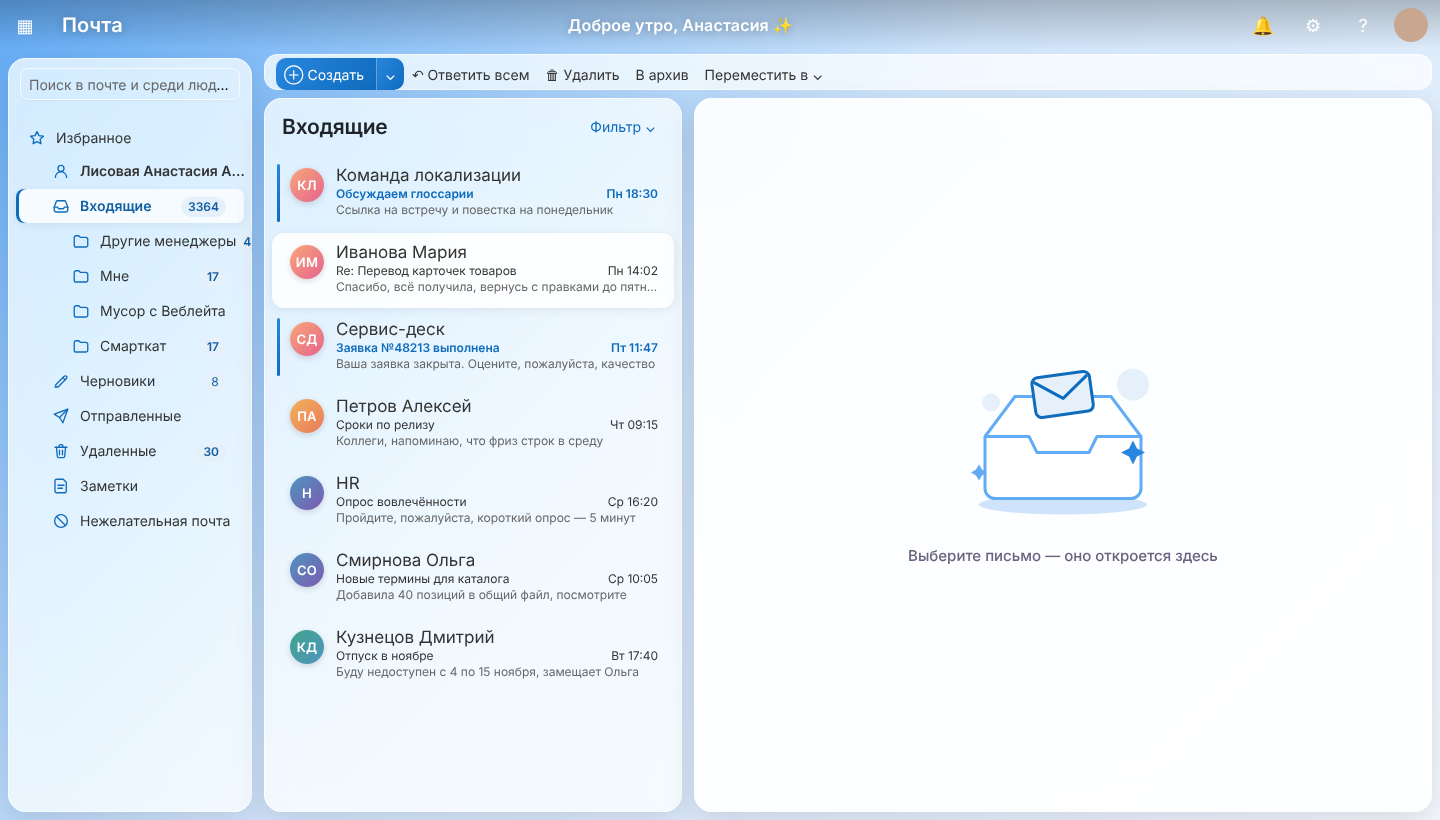
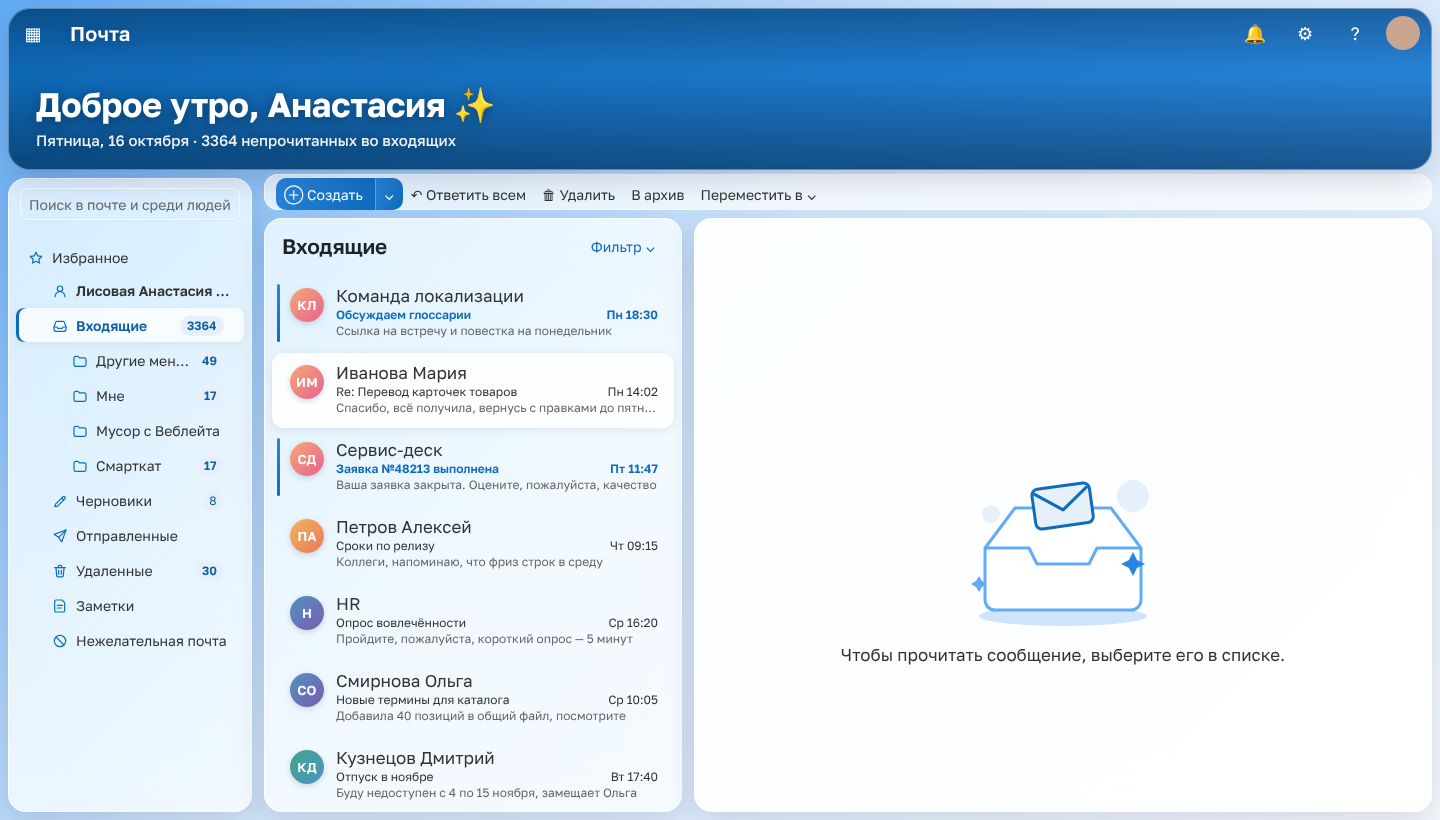
OWA Restyle 0.3: hero header, reading-pane picture, folder pane fixes
- Tall hero header with its own picture, height and focus sliders,
  big greeting with date and unread count
- Own picture in the empty reading pane, OWA hint shown as a pill
- Wider folder pane, long folder names ellipsized before counters,
  smaller folder icons
- Header offset works with both inline style spellings

Claude-Session: https://claude.ai/code/session_01MUPSdyJMeKqe5QhkT4sJWG

diff --git a/owa-restyle/content.js b/owa-restyle/content.js
@@ -27,7 +27,12 @@
       chrome.storage.local.get({ images: [], emptyImage: null }, function (local) {
         resolveWallpaper(s, local, function (wall) {
           settings = s;
-          style.textContent = R.buildCss(s, urlFor, { wallpaper: wall, emptyImage: local.emptyImage });
+          var hero = s.heroImage && s.heroImage !== "wallpaper" &&
+            (local.images || []).filter(function (i) { return i.id === s.heroImage; })[0];
+          var reading = s.readingImage && s.readingImage !== "none" &&
+            (local.images || []).filter(function (i) { return i.id === s.readingImage; })[0];
+          style.textContent = R.buildCss(s, urlFor, { wallpaper: wall, emptyImage: local.emptyImage,
+            heroImage: hero ? hero.data : null, readingImage: reading ? reading.data : null });
           document.documentElement.classList.toggle("ors-glass", s.style === "glass");
           schedule();
         });
@@ -87,27 +92,86 @@
     }
   }
 
+  var MONTHS = ["января", "февраля", "марта", "апреля", "мая", "июня", "июля", "августа", "сентября", "октября", "ноября", "декабря"];
+  var DAYS = ["Воскресенье", "Понедельник", "Вторник", "Среда", "Четверг", "Пятница", "Суббота"];
+
+  function firstName() {
+    var btn = document.querySelector('button[aria-label^="Меню "]');
+    if (!btn) return "";
+    // «Меню Фамилия Имя Отчество с подменю» → Имя
+    var parts = btn.getAttribute("aria-label").replace(/^Меню\s+/, "").replace(/\s+с подменю.*$/, "").split(/\s+/);
+    return parts.length >= 2 ? parts[1] : parts[0];
+  }
+
+  function inboxUnread() {
+    var name = document.querySelector('div[autoid="_n_a"] ._n_C4[title="Входящие"], div[autoid="_n_a"] ._n_C4[title="Inbox"]');
+    var row = name && name.closest('[role="treeitem"]');
+    var cnt = row && row.querySelector("._n_E4");
+    var n = cnt ? parseInt(cnt.textContent.replace(/\D/g, ""), 10) : 0;
+    return n || 0;
+  }
+
+  function plural(n, one, few, many) {
+    var m10 = n % 10, m100 = n % 100;
+    if (m10 === 1 && m100 !== 11) return one;
+    if (m10 >= 2 && m10 <= 4 && (m100 < 12 || m100 > 14)) return few;
+    return many;
+  }
+
+  function setText(el, text) { if (el.textContent !== text) el.textContent = text; }
+
   function decorateHeader() {
+    var glass = settings.style === "glass";
+    var heroOn = glass && (+settings.heroHeight || 50) > 50;
+    var greetOn = glass && settings.greeting !== false;
+    var now = new Date(), h = now.getHours();
+    var hello = (h < 5 ? "Доброй ночи" : h < 12 ? "Доброе утро" : h < 18 ? "Добрый день" : "Добрый вечер") +
+      (firstName() ? ", " + firstName() : "");
+
+    // Маленькое приветствие по центру шапки — когда баннер выключен.
     var center = document.querySelector("#O365_NavHeader .o365cs-nav-centerAlign");
     var greet = document.querySelector(".ors-greet");
-    var on = settings.style === "glass" && settings.greeting !== false;
-    if (!on || !center) { if (greet) greet.remove(); return; }
-    var btn = document.querySelector('button[aria-label^="Меню "]');
-    var first = "";
-    if (btn) {
-      // «Меню Фамилия Имя Отчество с подменю» → Имя
-      var parts = btn.getAttribute("aria-label").replace(/^Меню\s+/, "").replace(/\s+с подменю.*$/, "").split(/\s+/);
-      first = parts.length >= 2 ? parts[1] : parts[0];
+    if (greetOn && !heroOn && center) {
+      if (!greet) { greet = document.createElement("span"); greet.className = "ors-greet"; center.appendChild(greet); }
+      setText(greet, hello + " ✨");
+    } else if (greet) greet.remove();
+
+    // Крупный текст на баннере.
+    var headerView = document.getElementById("primaryHeaderView");
+    var hero = document.querySelector(".ors-hero");
+    if (heroOn && greetOn && headerView) {
+      if (!hero) {
+        hero = document.createElement("div");
+        hero.className = "ors-hero";
+        hero.appendChild(document.createElement("b"));
+        hero.appendChild(document.createElement("span"));
+        headerView.appendChild(hero);
+      }
+      var n = inboxUnread();
+      var sub = DAYS[now.getDay()] + ", " + now.getDate() + " " + MONTHS[now.getMonth()] +
+        (n ? " · " + n + " " + plural(n, "непрочитанное", "непрочитанных", "непрочитанных") + " во входящих" : "");
+      setText(hero.firstChild, hello + " ✨");
+      setText(hero.lastChild, sub);
+    } else if (hero) hero.remove();
+  }
+
+  // Длинные названия папок обрезаем многоточием, чтобы не наезжали на счётчики.
+  function fitFolders() {
+    var card = document.querySelector('div[autoid="_n_a"]');
+    var names = card ? card.querySelectorAll("._n_C4") : [];
+    var on = settings.style === "glass";
+    if (!card) return;
+    var right = card.getBoundingClientRect().right - 16;
+    for (var i = 0; i < names.length; i++) {
+      var el = names[i];
+      if (!on) { el.classList.remove("ors-fit"); el.style.maxWidth = ""; continue; }
+      el.classList.add("ors-fit");
+      var row = el.closest('[role="treeitem"]');
+      var cnt = row && row.querySelector("._n_F4");
+      var cw = cnt && cnt.offsetWidth && cnt.textContent.trim() ? cnt.offsetWidth + 10 : 0;
+      var max = Math.max(40, Math.floor(right - el.getBoundingClientRect().left - cw - 6));
+      if (el.style.maxWidth !== max + "px") el.style.maxWidth = max + "px";
     }
-    var h = new Date().getHours();
-    var hello = h < 5 ? "Доброй ночи" : h < 12 ? "Доброе утро" : h < 18 ? "Добрый день" : "Добрый вечер";
-    var text = hello + (first ? ", " + first : "") + " ✨";
-    if (!greet) {
-      greet = document.createElement("span");
-      greet.className = "ors-greet";
-      center.appendChild(greet);
-    }
-    if (greet.textContent !== text) greet.textContent = text;
   }
 
   function decorateFolders() {
@@ -121,8 +185,12 @@
   function decorateReading() {
     var pane = document.querySelector("._n_Y");
     if (!pane) return;
-    var empty = settings.style === "glass" && pane.innerText.trim().length === 0;
+    // Письмо не открыто: в области чтения пусто или видна заглушка OWA «Чтобы прочитать сообщение…».
+    var stub = pane.querySelector("._n_O2");
+    var stubVisible = stub && stub.offsetParent !== null;
+    var empty = settings.style === "glass" && (stubVisible || pane.innerText.trim().length === 0);
     pane.classList.toggle("ors-reading-empty", empty);
+    pane.classList.toggle("ors-reading-stub", !!stubVisible);
   }
 
   // Держим наш стиль последним в <head>: так он перекрывает стили, которые OWA добавляет на ходу.
@@ -142,6 +210,7 @@
       decorateList();
       decorateHeader();
       decorateFolders();
+      fitFolders();
       decorateReading();
     }, 150);
   }
@@ -151,12 +220,13 @@
     new MutationObserver(function (muts) {
       for (var i = 0; i < muts.length; i++) {
         var n = muts[i].target;
-        if (n && n.classList && (n.classList.contains("ors-av") || n.classList.contains("ors-greet"))) continue;
+        if (n && n.classList && (n.classList.contains("ors-av") || n.classList.contains("ors-greet") || n.classList.contains("ors-hero") || (n.parentElement && n.parentElement.classList && n.parentElement.classList.contains("ors-hero")))) continue;
         schedule();
         return;
       }
     }).observe(document.documentElement, { childList: true, subtree: true, characterData: true });
     setInterval(schedule, 60000); // обновить приветствие по времени суток
+    window.addEventListener("resize", schedule);
   }
 
   if (document.readyState === "loading") document.addEventListener("DOMContentLoaded", start);

diff --git a/owa-restyle/glass.js b/owa-restyle/glass.js
@@ -124,7 +124,7 @@
 
     // Иконки папок.
     if (s.folderIcons !== false) {
-      out.push("html ._n_C4::before,html #MailFolderPane\\.FavoritesHeader::before{content:\"\";display:inline-block;width:18px;height:18px;margin-right:10px;vertical-align:-4px;" +
+      out.push("html ._n_C4::before,html #MailFolderPane\\.FavoritesHeader::before{content:\"\";display:inline-block;width:16px;height:16px;margin-right:8px;vertical-align:-3px;" +
         "background:" + t.primary + ";-webkit-mask:" + ICONS.folder + " center/contain no-repeat;mask:" + ICONS.folder + " center/contain no-repeat}");
       FOLDERS.forEach(function (f) {
         var sel = f[1].map(function (n) { return "html ._n_C4[title=\"" + n + "\"]::before"; }).join(",");
@@ -147,9 +147,43 @@
     out.push("html ._n_O2>span.owaimg::before{content:none!important}");
 
     // Пустая область чтения: иллюстрация и подсказка (класс ставит content.js).
-    out.push("html ._n_Y.ors-reading-empty::after{content:\"Выберите письмо — оно откроется здесь\";position:absolute;left:0;right:0;top:50%;transform:translateY(-50%);" +
+    out.push("html ._n_Y.ors-reading-empty:not(.ors-reading-stub)::after{content:\"Выберите письмо — оно откроется здесь\";position:absolute;left:0;right:0;top:50%;transform:translateY(-50%);" +
       "padding-top:200px;text-align:center;color:#6b6280;font:500 15px/1.4 var(--ors-font, \"Segoe UI\", sans-serif);" +
       "background:var(--ors-empty) center top/240px 180px no-repeat;pointer-events:none}");
+
+    // Панель папок шире (OWA задаёт 256px в inline-стилях; если ширину перетащить мышкой, оставляем как есть).
+    var FW = 296;
+    out.push("html [role=\"main\"]._n_X>div[style*=\"width: 256px\"]{width:" + FW + "px!important}");
+    out.push("html [role=\"main\"]._n_X>.vResize[style*=\"256px\"],html [role=\"main\"]._n_X>._n_X[style*=\"256px\"]{left:" + FW + "px!important}");
+    // Длинные названия папок — с многоточием (max-width выставляет content.js).
+    out.push("html div[autoid=\"_n_a\"] ._n_C4.ors-fit{display:inline-block;overflow:hidden;text-overflow:ellipsis;white-space:nowrap;vertical-align:middle}");
+    out.push("html .o365cs-base.o365cst .o365cs-appLauncherBackground,html #O365_NavHeader .o365cs-nav-button{background-color:transparent!important}");
+
+    // Шапка-баннер.
+    var H = Math.max(50, Math.min(320, +s.heroHeight || 50));
+    if (H > 50) {
+      var heroBg = extras.heroImage ? "url(\"" + extras.heroImage + "\") center " + (+s.heroPos || 0) + "%/cover no-repeat" :
+        extras.wallpaper ? "transparent" : (th.header || gradient);
+      out.push("html #primaryHeaderView{height:" + H + "px!important;z-index:1}");
+      out.push(["inset: 50px", "inset:50px", "top: 50px", "top:50px"].map(function (v) { return "html #primaryContainer>div[style*=\"" + v + "\"],html #primaryContainer>a[style*=\"" + v + "\"]"; }).join(",") + "{top:" + H + "px!important}");
+      out.push("html ._n_c{height:" + H + "px!important}");
+      out.push("html #primaryHeaderView::before{content:\"\";position:absolute;inset:8px 8px 0 8px;border-radius:22px;z-index:-1;pointer-events:none;" +
+        "background:linear-gradient(180deg,rgba(0,0,0,.28) 0,rgba(0,0,0,0) 70px),linear-gradient(0deg,rgba(0,0,0,.36) 0,rgba(0,0,0,0) 65%)," + heroBg + ";" +
+        "box-shadow:inset 0 0 0 1px rgba(255,255,255,.35),0 10px 30px rgba(20,10,40,.15)}");
+      out.push("html #O365_NavHeader,html #O365_NavHeader.o365cs-topnavBGImage,html .o365cs-topnavBGColor-2{background:transparent!important;margin:8px 8px 0;border-radius:22px 22px 0 0}");
+      out.push("html .ors-hero{position:absolute;left:36px;right:36px;bottom:20px;color:#fff;pointer-events:none;text-shadow:0 2px 12px rgba(0,0,0,.35)}");
+      out.push("html .ors-hero b{display:block;font:700 " + (H >= 150 ? 34 : 24) + "px/1.15 var(--ors-display, var(--ors-font, \"Segoe UI\", sans-serif));letter-spacing:-.01em}");
+      out.push("html .ors-hero span{display:block;margin-top:6px;font:500 15px/1.3 var(--ors-font, \"Segoe UI\", sans-serif);opacity:.92}");
+      if (H < 110) out.push("html .ors-hero span{display:none}");
+    }
+
+    // Своя картинка в пустой области чтения (пока письмо не открыто).
+    if (extras.readingImage) {
+      out.push("html ._n_Y.ors-reading-empty::before{background:url(\"" + extras.readingImage + "\") center " + (+s.readingPos || 50) + "%/cover no-repeat}");
+      out.push("html ._n_Y.ors-reading-empty ._n_O2>span.owaimg,html ._n_Y.ors-reading-empty::after{display:none!important}");
+      out.push("html ._n_Y.ors-reading-empty ._n_O2{width:fit-content!important;max-width:90%;margin-left:auto!important;margin-right:auto!important;padding:10px 18px;border-radius:14px;" +
+        "background:rgba(255,255,255,.72);" + bf + ";box-shadow:0 6px 20px rgba(20,10,40,.15);white-space:nowrap}");
+    }
 
     // Приветствие в шапке.
     out.push("html .ors-greet{color:#fff;font:600 16px/50px var(--ors-display, var(--ors-font, \"Segoe UI\", sans-serif));letter-spacing:.01em;white-space:nowrap}");

diff --git a/owa-restyle/settings.js b/owa-restyle/settings.js
@@ -63,6 +63,8 @@
     var glass = cur.style === "glass";
     $("glassOnly").hidden = !glass;
     $("glassOnly2").hidden = !glass;
+    $("glassOnly3").hidden = !glass;
+    $("heroWrap").hidden = (+cur.heroHeight || 50) <= 50;
     $("openFull").hidden = !popup;
 
     var st = $("styles"); st.innerHTML = "";
@@ -86,13 +88,52 @@
           if (!confirm("Удалить эту картинку?")) return;
           saveLocal({ images: local.images.filter(function (x) { return x.id !== img.id; }) });
           if (cur.wallpaper === img.id) save({ wallpaper: "theme" });
+          if (cur.heroImage === img.id) save({ heroImage: "wallpaper" });
+          if (cur.readingImage === img.id) save({ readingImage: "none" });
         }));
     });
     var add = wallTile("+ Загрузить свою", null, false, function () {
-      if (popup) chrome.runtime.openOptionsPage(); else $("wallFile").click();
+      if (popup) chrome.runtime.openOptionsPage(); else { uploadTarget = "wallpaper"; $("wallFile").click(); }
     });
     add.classList.add("add");
     walls.appendChild(add);
+
+    var heroes = $("heroes"); heroes.innerHTML = "";
+    heroes.appendChild(wallTile("Как фон", null, cur.heroImage === "wallpaper", function () { save({ heroImage: "wallpaper" }); }));
+    heroes.firstChild.style.background = "repeating-linear-gradient(45deg,#f1eff6 0 8px,#fafafa 8px 16px)";
+    heroes.firstChild.querySelector("span").style.color = "#6b7280";
+    heroes.firstChild.querySelector("span").style.background = "none";
+    (local.images || []).forEach(function (img) {
+      var tile = wallTile(img.name || "Моя картинка", "url(" + img.data + ")", cur.heroImage === img.id, function () { save({ heroImage: img.id }); });
+      tile.style.backgroundPosition = "center " + cur.heroPos + "%";
+      heroes.appendChild(tile);
+    });
+    var addHero = wallTile("+ Загрузить", null, false, function () {
+      if (popup) chrome.runtime.openOptionsPage(); else { uploadTarget = "heroImage"; $("wallFile").click(); }
+    });
+    addHero.classList.add("add");
+    heroes.appendChild(addHero);
+    var readings = $("readings"); readings.innerHTML = "";
+    var none = wallTile("Без картинки", null, cur.readingImage === "none" || !cur.readingImage, function () { save({ readingImage: "none" }); });
+    none.style.background = "repeating-linear-gradient(45deg,#f1eff6 0 8px,#fafafa 8px 16px)";
+    none.querySelector("span").style.color = "#6b7280";
+    none.querySelector("span").style.background = "none";
+    readings.appendChild(none);
+    (local.images || []).forEach(function (img) {
+      var tile = wallTile(img.name || "Моя картинка", "url(" + img.data + ")", cur.readingImage === img.id, function () { save({ readingImage: img.id }); });
+      tile.style.backgroundPosition = "center " + cur.readingPos + "%";
+      readings.appendChild(tile);
+    });
+    var addReading = wallTile("+ Загрузить", null, false, function () {
+      if (popup) chrome.runtime.openOptionsPage(); else { uploadTarget = "readingImage"; $("wallFile").click(); }
+    });
+    addReading.classList.add("add");
+    readings.appendChild(addReading);
+    $("readingPosWrap").hidden = !cur.readingImage || cur.readingImage === "none";
+    $("readingPos").value = cur.readingPos;
+
+    $("heroHeight").value = cur.heroHeight;
+    $("heroPos").value = cur.heroPos;
 
     $("dim").value = cur.dim;
     $("blur").value = cur.blur;
@@ -153,12 +194,17 @@
     reader.readAsDataURL(file);
   }
 
+  var uploadTarget = "wallpaper";
   $("wallFile").onchange = function (e) {
     var files = Array.prototype.slice.call(e.target.files);
     e.target.value = "";
     (function next(lastId) {
       var f = files.shift();
-      if (!f) { if (lastId) save({ wallpaper: lastId, style: "glass" }); return; }
+      if (!f) {
+        if (lastId) { var p = { style: "glass" }; p[uploadTarget] = lastId; save(p); }
+        uploadTarget = "wallpaper";
+        return;
+      }
       readImage(f, 2560, "image/jpeg", 0.88, function (data) {
         var id = "img" + Date.now() + Math.floor(Math.random() * 1000);
         var name = f.name.replace(/\.[^.]+$/, "").slice(0, 24);
@@ -178,7 +224,7 @@
   $("emptyReset").onclick = function () { saveLocal({ emptyImage: null }); };
   $("openFull").onclick = function () { chrome.runtime.openOptionsPage(); };
 
-  ["dim", "blur"].forEach(function (k) {
+  ["dim", "blur", "heroHeight", "heroPos", "readingPos"].forEach(function (k) {
     var timer = null;
     $(k).oninput = function () {
       var v = +this.value;

diff --git a/owa-restyle/settings.html b/owa-restyle/settings.html
@@ -25,6 +25,19 @@
       </div>
     </section>
 
+    <section id="glassOnly3">
+      <h2>Шапка</h2>
+      <div class="sliders">
+        <label>Высота шапки <input id="heroHeight" type="range" min="50" max="320" step="10"></label>
+      </div>
+      <div id="heroWrap">
+        <div id="heroes" class="walls"></div>
+        <div class="sliders">
+          <label>Сдвиг картинки ↕ <input id="heroPos" type="range" min="0" max="100" step="1"></label>
+        </div>
+      </div>
+    </section>
+
     <h2>Тема</h2>
     <div id="themes" class="grid"></div>
 
@@ -39,7 +52,14 @@
         <label><input type="checkbox" data-key="greeting"> Приветствие в шапке</label>
       </div>
 
-      <h2>Картинка для пустых мест</h2>
+      <h2>Картинка в области чтения</h2>
+      <p class="sub">Видна, пока письмо не открыто.</p>
+      <div id="readings" class="walls"></div>
+      <div class="sliders" id="readingPosWrap">
+        <label>Сдвиг картинки ↕ <input id="readingPos" type="range" min="0" max="100" step="1"></label>
+      </div>
+
+      <h2>Картинка для пустых папок</h2>
       <div class="emptyRow">
         <div id="emptyPreview" class="emptyPreview"></div>
         <div class="emptyBtns">

diff --git a/owa-restyle/themes.js b/owa-restyle/themes.js
@@ -273,7 +273,7 @@
   root.OWA_RESTYLE = {
     THEMES: THEMES,
     FONTS: FONTS,
-    DEFAULTS: { style: "glass", theme: "cloud", font: "golos", wallpaper: "theme", dim: 15, blur: 24, greeting: true, avatars: true, folderIcons: true },
+    DEFAULTS: { style: "glass", theme: "cloud", font: "golos", wallpaper: "theme", dim: 15, blur: 24, greeting: true, avatars: true, folderIcons: true, heroHeight: 170, heroImage: "wallpaper", heroPos: 30, readingImage: "none", readingPos: 50 },
     buildCss: buildCss
   };
 })(typeof window !== "undefined" ? window : globalThis);

diff --git a/owa-restyle/settings.css b/owa-restyle/settings.css
@@ -48,3 +48,4 @@ body.full .walls { grid-template-columns: repeat(4, 1fr); }
 .emptyBtns button:not(.link) { padding: 6px 10px; }
 .hint { color: var(--mute); font-size: 11px; margin: 16px 0 0; }
 [hidden] { display: none !important; }
+.sub { color: var(--mute); font-size: 11px; margin: -4px 0 7px; }

diff --git a/owa-restyle/README.md b/owa-restyle/README.md
@@ -12,12 +12,14 @@
 - **Стекло** — обои на весь экран, папки, список писем, панель команд и область чтения превращаются
   в полупрозрачные карточки с размытием. Плюс украшения: аватарки с инициалами у писем, иконки у папок,
   приветствие в шапке («Добрый день, Анастасия ✨»), иллюстрации в пустых папках и в пустой области чтения.
+  Высокая **шапка-баннер** со своей картинкой (высота и сдвиг картинки настраиваются), крупным приветствием,
+  датой и числом непрочитанных. В **области чтения**, пока письмо не открыто, может стоять своя картинка.
 - **Классика** — только цвета темы и шрифт, без обоев и карточек.
 
 **Темы:** Вайс-Сити (закат и пальмы), Облако, Пудра, Шалфей, Лаванда, Графит (тёмная, только в классике) и «Как было».
 
-**Свои картинки:** на странице настроек можно загрузить сколько угодно своих картинок для фона и переключаться
-между ними, а также поставить свою картинку для пустых мест. Картинки хранятся только в этом браузере.
+**Свои картинки:** на странице настроек можно загрузить сколько угодно своих картинок и выбрать,
+какая будет фоном, какая — в шапке, а какая — в области чтения. Есть и своя картинка для пустых папок. Картинки хранятся только в этом браузере.
 Яркость и размытие стекла настраиваются ползунками.
 
 **Шрифт интерфейса:** Golos Text, Inter, Manrope, Onest, Segoe UI Variable (есть в Windows 11) или исходный Segoe UI.
